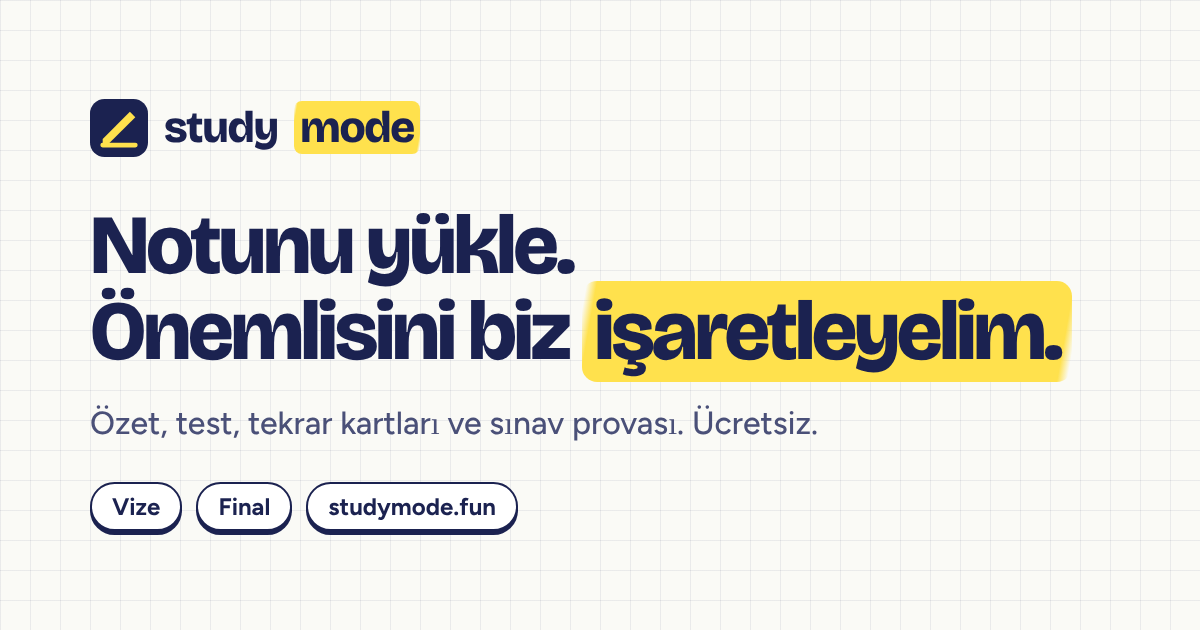
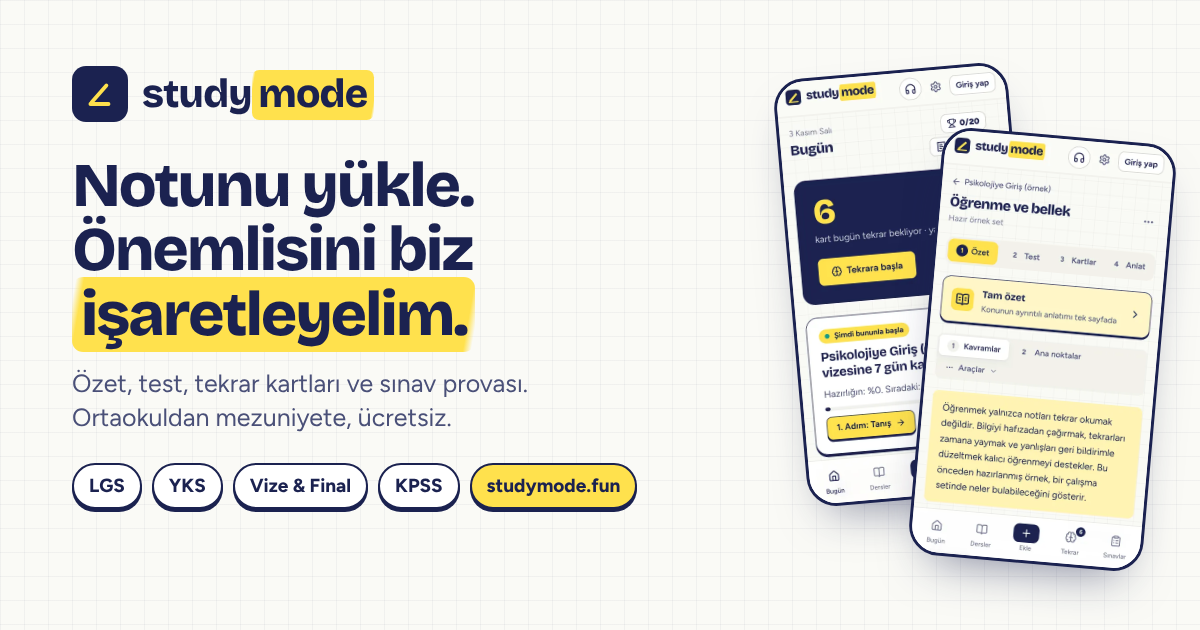
Link preview: for every level (LGS, YKS, vize & final, KPSS) with two phone screens; description follows
Claude-Session: https://claude.ai/code/session_01BnFBAftA2xNa1qPMDpRS4w

diff --git a/index.html b/index.html
@@ -5,9 +5,9 @@
     <meta name="viewport" content="width=device-width, initial-scale=1.0, viewport-fit=cover" />
     <meta name="theme-color" content="#fafaf6" media="(prefers-color-scheme: light)" />
     <meta name="theme-color" content="#11142a" media="(prefers-color-scheme: dark)" />
-    <meta name="description" content="Notunu yükle, önemlisini biz işaretleyelim. Özet, test ve tekrar kartlarıyla vize ve finale kadar düzenli çalış." />
-    <meta property="og:title" content="studymode" />
-    <meta property="og:description" content="Notunu yükle, önemlisini biz işaretleyelim. Özet, test ve tekrar kartlarıyla vize ve finale kadar düzenli çalış." />
+    <meta name="description" content="Notunu yükle, önemlisini biz işaretleyelim. Özet, test, tekrar kartları ve sınav provası; LGS, YKS, vize, final ve KPSS için ücretsiz." />
+    <meta property="og:title" content="studymode · Notunu yükle, önemlisini biz işaretleyelim" />
+    <meta property="og:description" content="Notunu yükle, önemlisini biz işaretleyelim. Özet, test, tekrar kartları ve sınav provası; LGS, YKS, vize, final ve KPSS için ücretsiz." />
     <meta property="og:type" content="website" />
     <meta property="og:url" content="https://studymode.fun/" />
     <meta property="og:site_name" content="studymode" />
@@ -15,7 +15,7 @@
     <meta property="og:image" content="https://studymode.fun/og.png" />
     <meta property="og:image:width" content="1200" />
     <meta property="og:image:height" content="630" />
-    <meta property="og:image:alt" content="studymode: Notunu yükle. Önemlisini biz işaretleyelim." />
+    <meta property="og:image:alt" content="studymode: Notunu yükle, önemlisini biz işaretleyelim. Bugün ve not ekranlarından iki telefon görüntüsü." />
     <meta name="twitter:card" content="summary_large_image" />
     <meta name="twitter:image" content="https://studymode.fun/og.png" />
     <title>studymode</title>
